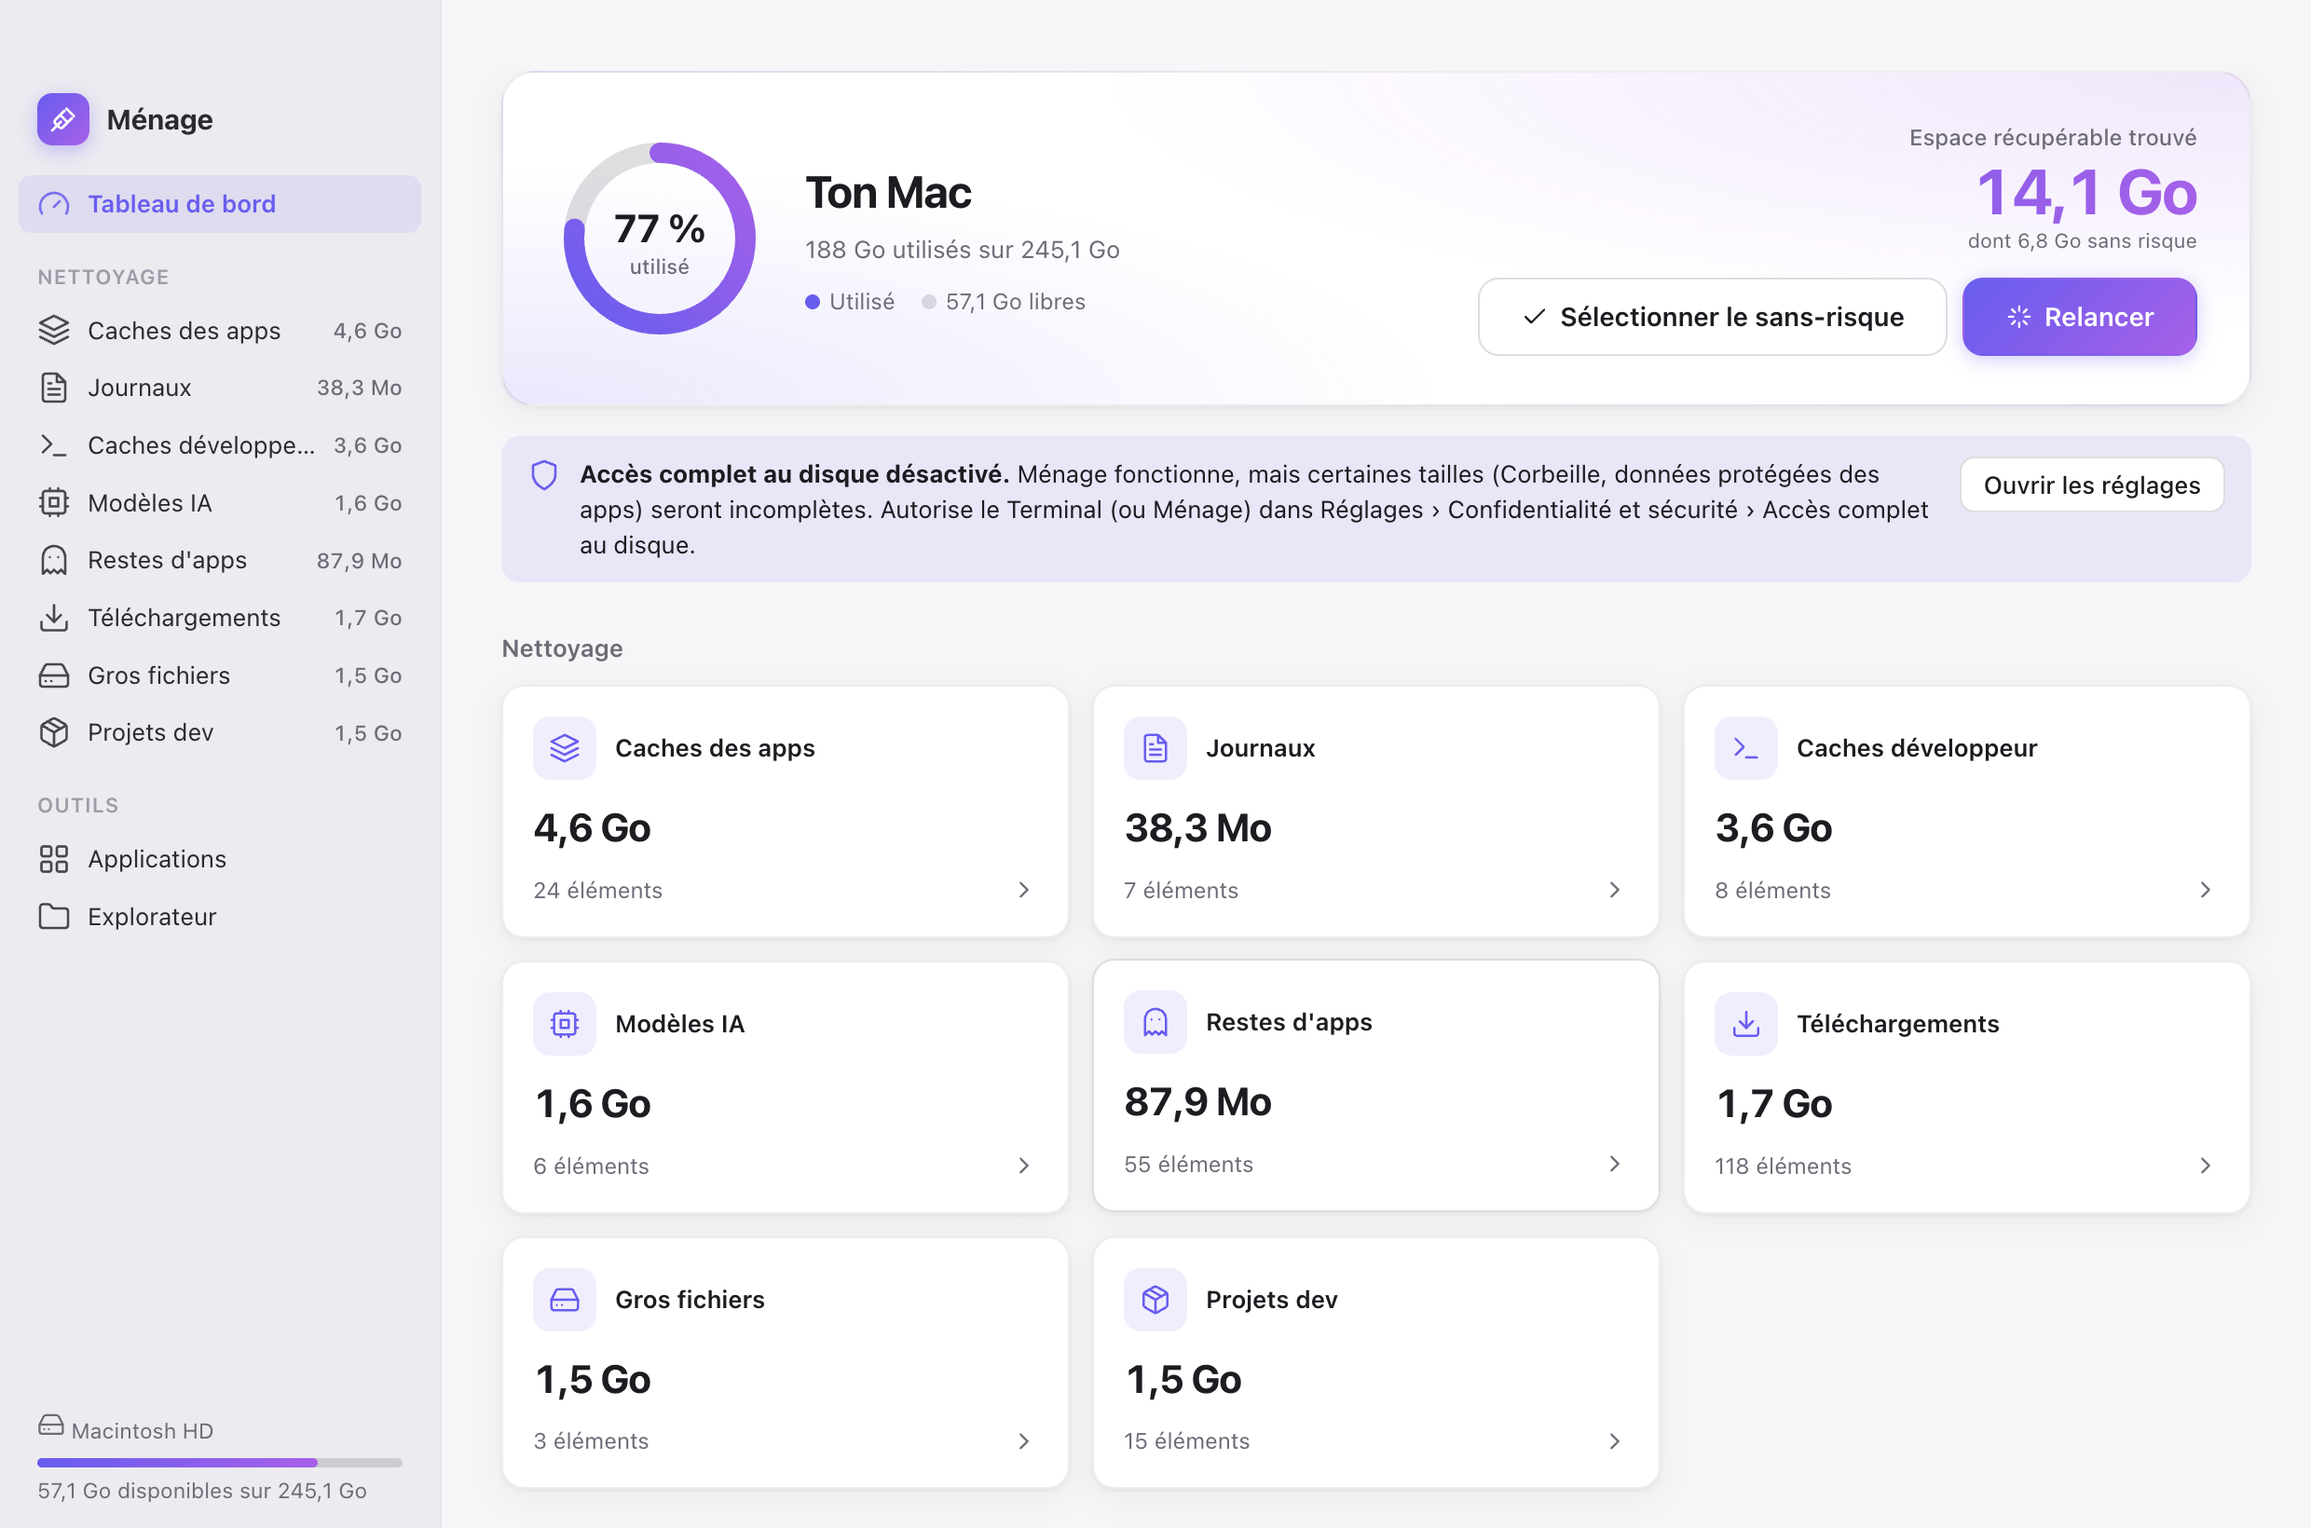
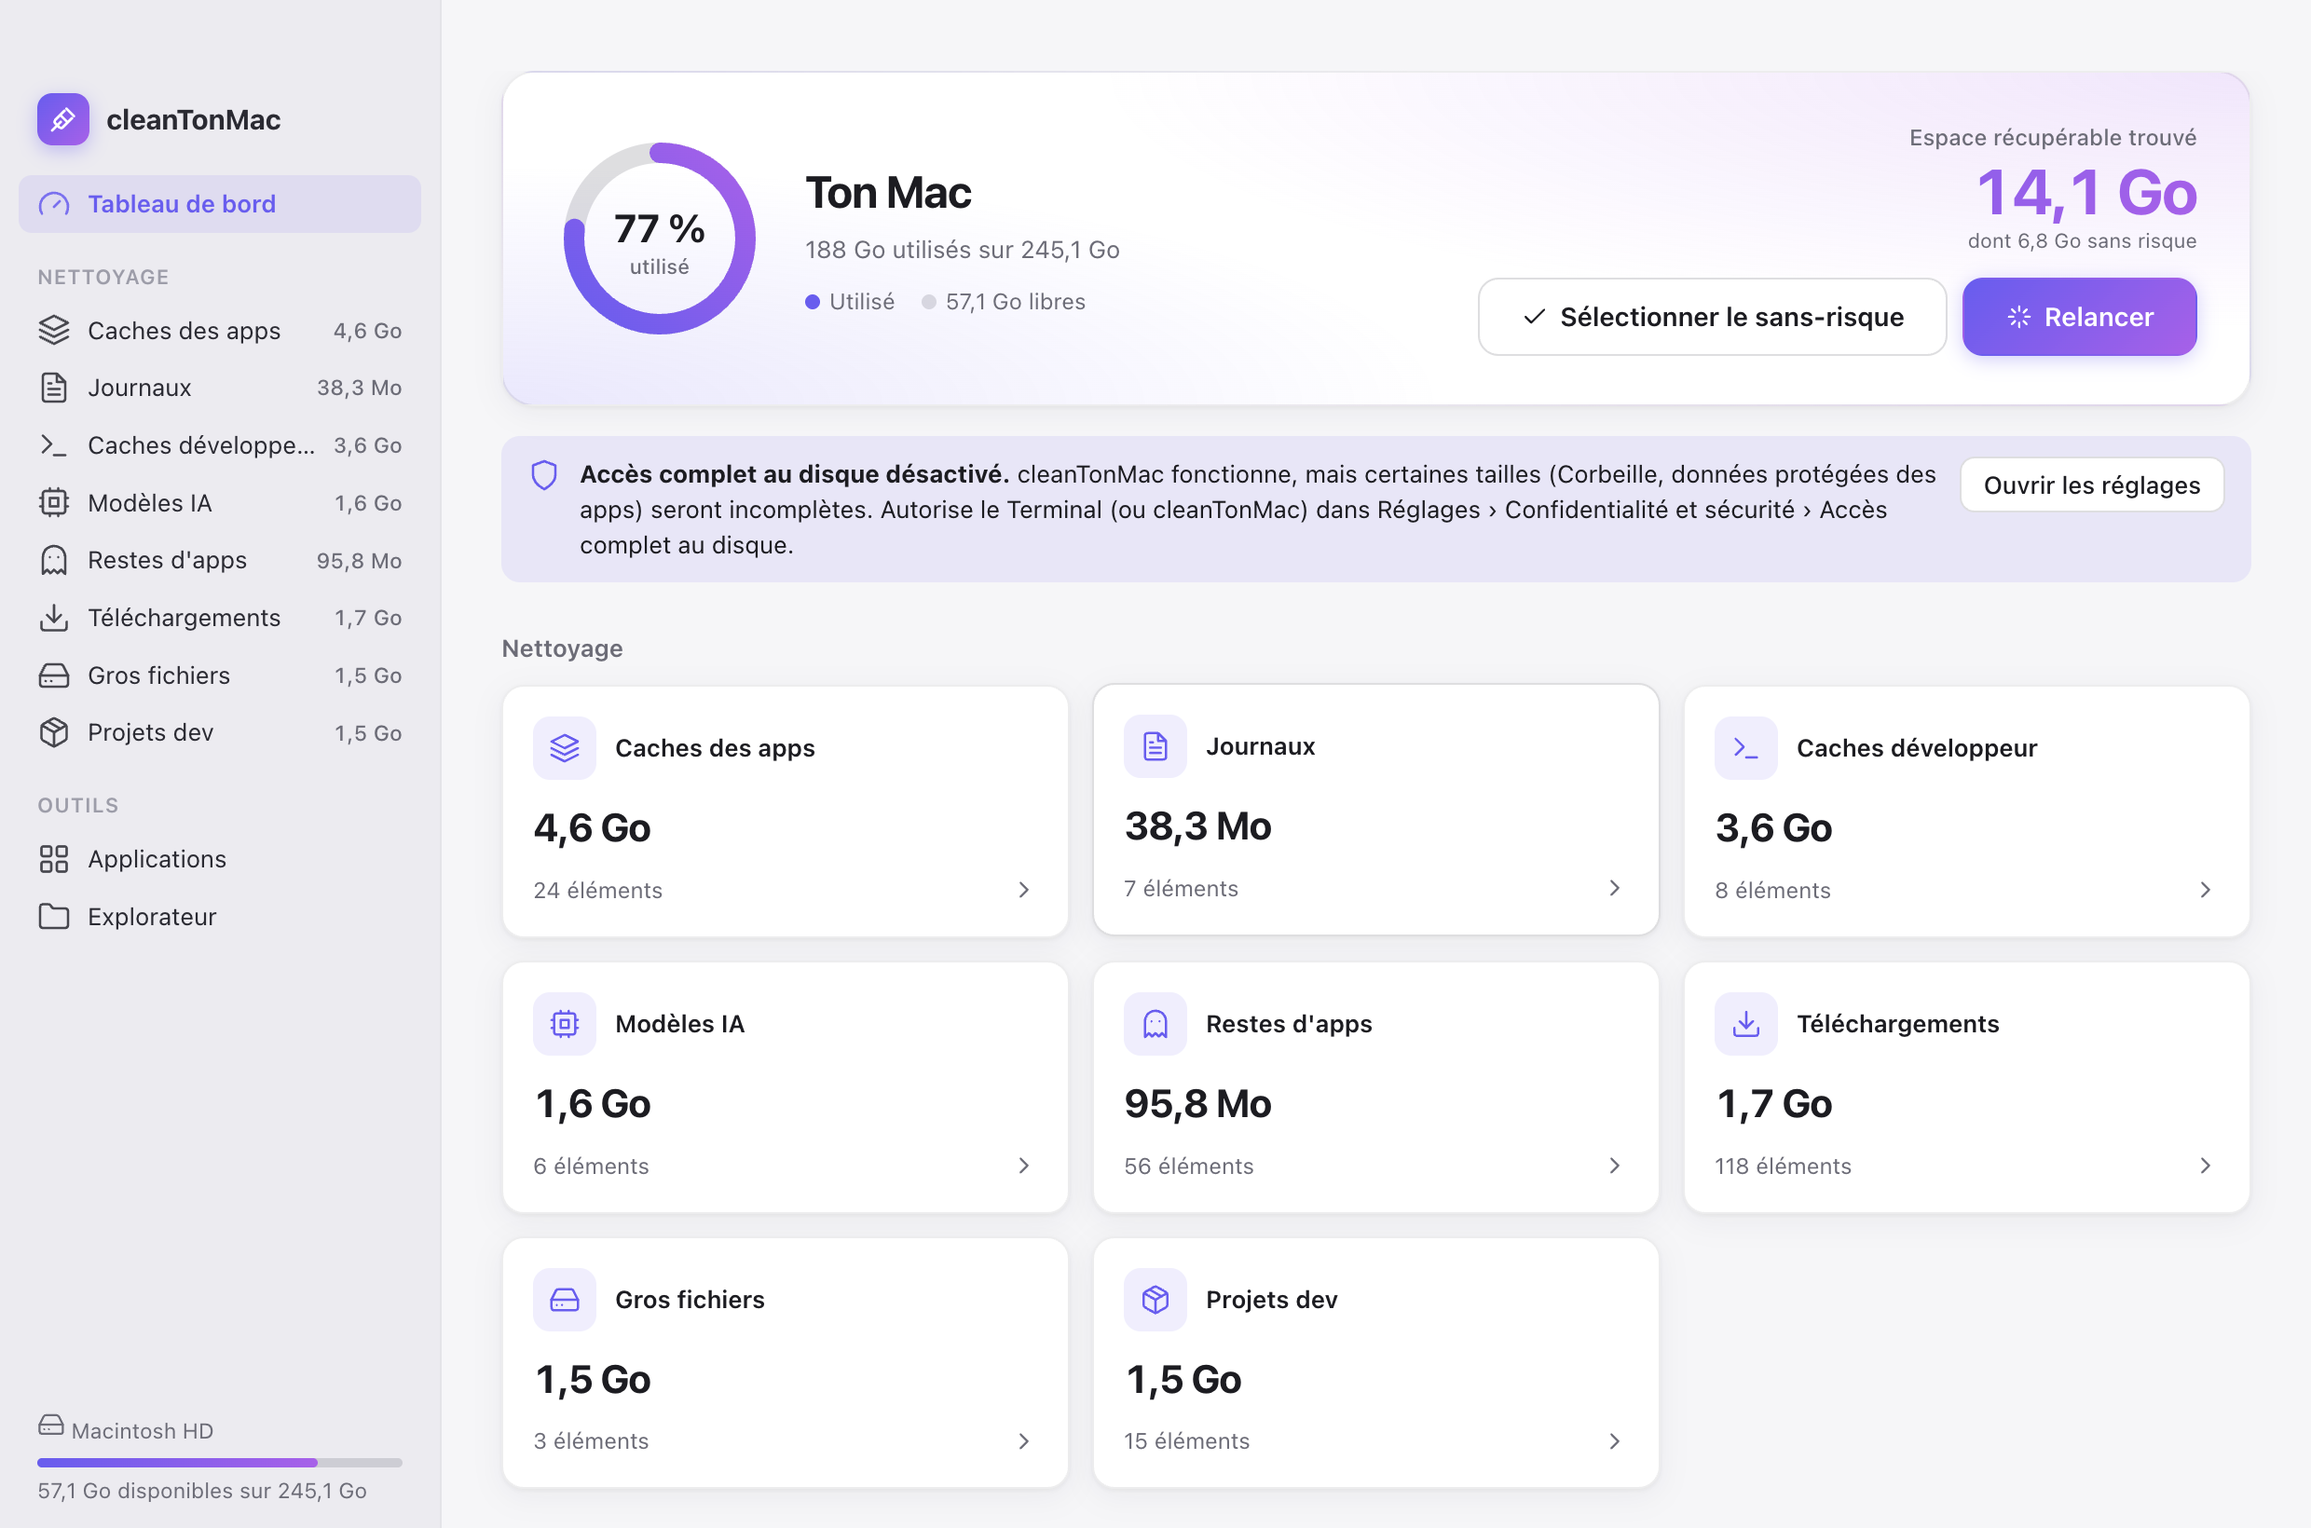
Renomme l'application en cleanTonMac et ajoute la licence MIT
- Nom de l'app, titre de fenêtre, pont IPC et variables de test renommés
- Fichier LICENSE (MIT) et champs license/author dans package.json
- Section Licence dans le README et capture d'écran mise à jour

diff --git a/main.js b/main.js
@@ -31,7 +31,7 @@ function protectedReason(p) {
   const r = path.resolve(p);
   const userData = app.getPath('userData');
   const inside = (t) => r === t || r.startsWith(t + '/');
-  if (inside(APP_DIR) || inside(userData) || userData.startsWith(r + '/') || APP_DIR.startsWith(r + '/')) return 'Utilisé par Ménage';
+  if (inside(APP_DIR) || inside(userData) || userData.startsWith(r + '/') || APP_DIR.startsWith(r + '/')) return 'Utilisé par cleanTonMac';
   if (PROTECTED.has(r)) return 'Dossier système protégé';
   if (PROTECTED_TREES.some(inside)) return 'Dossier sensible protégé';
   if (r.startsWith(HOME + '/')) return null;
@@ -47,7 +47,7 @@ function createWindow() {
     height: 820,
     minWidth: 980,
     minHeight: 640,
-    title: 'Ménage',
+    title: 'cleanTonMac',
     titleBarStyle: 'hiddenInset',
     trafficLightPosition: { x: 18, y: 18 },
     webPreferences: {
@@ -63,7 +63,7 @@ function createWindow() {
   win.webContents.setWindowOpenHandler(({ url }) => { shell.openExternal(url); return { action: 'deny' }; });
   win.webContents.on('will-navigate', (e) => e.preventDefault());
 
-  if (process.env.MENAGE_SNAPSHOT) debugSnapshot(process.env.MENAGE_SNAPSHOT);
+  if (process.env.CLEANTONMAC_SNAPSHOT) debugSnapshot(process.env.CLEANTONMAC_SNAPSHOT);
 }
 
 // Mode test : exécute un script dans la page, capture la fenêtre et quitte.
@@ -71,8 +71,8 @@ function debugSnapshot(out) {
   win.webContents.on('console-message', (e) => console.log(`[page:${e.level}] ${e.message}`));
   win.webContents.once('did-finish-load', async () => {
     try {
-      if (process.env.MENAGE_EVAL) await win.webContents.executeJavaScript(process.env.MENAGE_EVAL);
-      await new Promise((r) => setTimeout(r, Number(process.env.MENAGE_WAIT || 4000)));
+      if (process.env.CLEANTONMAC_EVAL) await win.webContents.executeJavaScript(process.env.CLEANTONMAC_EVAL);
+      await new Promise((r) => setTimeout(r, Number(process.env.CLEANTONMAC_WAIT || 4000)));
       const img = await win.webContents.capturePage();
       fs.writeFileSync(out, img.toPNG());
     } catch (e) { console.error(e); }

diff --git a/renderer/app.js b/renderer/app.js
@@ -1,6 +1,6 @@
 'use strict';
 
-const api = window.menage;
+const api = window.cleanTonMac;
 
 // ------------------------------------------------------------------- icônes
 
@@ -201,7 +201,7 @@ async function emptyTrash() {
   const size = state.trash?.size;
   const ok = await confirmModal({
     title: 'Vider la Corbeille ?',
-    body: `<p>${size != null ? `<strong>${fmtSize(size)}</strong> seront supprimés` : 'Tout son contenu sera supprimé'} définitivement. Cette action est irréversible.</p><p>macOS peut te demander d'autoriser Ménage à piloter le Finder la première fois.</p>`,
+    body: `<p>${size != null ? `<strong>${fmtSize(size)}</strong> seront supprimés` : 'Tout son contenu sera supprimé'} définitivement. Cette action est irréversible.</p><p>macOS peut te demander d'autoriser cleanTonMac à piloter le Finder la première fois.</p>`,
     confirm: 'Vider la corbeille',
     danger: true,
   });
@@ -417,8 +417,8 @@ function viewDashboard() {
 
   const fda = state.info && !state.info.fda ? `
     <div class="callout info">${icon('shield')}
-      <div><strong>Accès complet au disque désactivé.</strong> Ménage fonctionne, mais certaines tailles
-      (Corbeille, données protégées des apps) seront incomplètes. Autorise le Terminal (ou Ménage) dans
+      <div><strong>Accès complet au disque désactivé.</strong> cleanTonMac fonctionne, mais certaines tailles
+      (Corbeille, données protégées des apps) seront incomplètes. Autorise le Terminal (ou cleanTonMac) dans
       Réglages › Confidentialité et sécurité › Accès complet au disque.</div>
       <button class="btn" data-act="fda">Ouvrir les réglages</button>
     </div>` : '';

diff --git a/renderer/index.html b/renderer/index.html
@@ -4,7 +4,7 @@
   <meta charset="utf-8">
   <meta http-equiv="Content-Security-Policy"
         content="default-src 'self'; img-src 'self' data:; style-src 'self' 'unsafe-inline'; script-src 'self'">
-  <title>Ménage</title>
+  <title>cleanTonMac</title>
   <link rel="stylesheet" href="styles.css">
 </head>
 <body>
@@ -13,7 +13,7 @@
       <span class="logo" aria-hidden="true">
         <svg viewBox="0 0 24 24" fill="none" stroke="currentColor" stroke-width="2" stroke-linecap="round" stroke-linejoin="round"><path d="M9.94 14.06 3 21"/><path d="m14.5 3.5 6 6"/><path d="M13 5 5.5 12.5a2 2 0 0 0 0 2.8l3.2 3.2a2 2 0 0 0 2.8 0L19 11"/><path d="m10 9 5 5"/></svg>
       </span>
-      <span>Ménage</span>
+      <span>cleanTonMac</span>
     </div>
     <nav id="nav"></nav>
     <div class="side-foot" id="side-foot"></div>

diff --git a/src/preload.js b/src/preload.js
@@ -4,7 +4,7 @@ const { contextBridge, ipcRenderer } = require('electron');
 
 const call = (channel) => (...args) => ipcRenderer.invoke(channel, ...args);
 
-contextBridge.exposeInMainWorld('menage', {
+contextBridge.exposeInMainWorld('cleanTonMac', {
   systemInfo: call('system:info'),
   scan: call('scan'),
   listApps: call('apps:list'),

diff --git a/README.md b/README.md
@@ -1,8 +1,8 @@
 # cleanTonMac
 
-**Ménage** est un tableau de bord pour macOS, dans l'esprit de CleanMyMac, qui repère les caches, les restes d'applications désinstallées et les fichiers oubliés qui encombrent ton disque, puis t'aide à les supprimer **sans risque** : tout part dans la Corbeille.
+**cleanTonMac** est un tableau de bord pour macOS, dans l'esprit de CleanMyMac, qui repère les caches, les restes d'applications désinstallées et les fichiers oubliés qui encombrent ton disque, puis t'aide à les supprimer **sans risque** : tout part dans la Corbeille.
 
-![Tableau de bord de Ménage](docs/tableau-de-bord.png)
+![Tableau de bord de cleanTonMac](docs/tableau-de-bord.png)
 
 - **Gratuit et local** : aucune donnée ne quitte ton Mac, aucun compte, aucune télémétrie.
 - **Transparent** : chaque élément affiche son chemin exact, sa taille et sa date de modification. Un clic l'ouvre dans le Finder.
@@ -14,13 +14,14 @@
 
 - [Installation](#installation)
 - [Utilisation](#utilisation)
-- [Ce que Ménage analyse](#ce-que-ménage-analyse)
+- [Ce que cleanTonMac analyse](#ce-que-cleantonmac-analyse)
 - [Comment ça fonctionne](#comment-ça-fonctionne)
 - [Sécurité](#sécurité)
 - [Autorisations macOS](#autorisations-macos)
 - [Structure du projet](#structure-du-projet)
 - [Développement](#développement)
 - [Limites connues](#limites-connues)
+- [Licence](#licence)
 
 ---
 
@@ -50,7 +51,7 @@ Ensuite, `npm start` suffit pour relancer l'application.
 
 ### 1. Analyser
 
-Au lancement, Ménage analyse automatiquement ton Mac, en quelques secondes. Le **tableau de bord** affiche :
+Au lancement, cleanTonMac analyse automatiquement ton Mac, en quelques secondes. Le **tableau de bord** affiche :
 
 - l'occupation du disque,
 - l'**espace récupérable** total, et la part « sans risque »,
@@ -100,7 +101,7 @@ La taille des dossiers se calcule progressivement. Des raccourcis mènent à la 
 
 ---
 
-## Ce que Ménage analyse
+## Ce que cleanTonMac analyse
 
 | Catégorie | Emplacements | Risque |
 |---|---|---|
@@ -119,7 +120,7 @@ La taille des dossiers se calcule progressivement. Des raccourcis mènent à la 
 
 ### Architecture
 
-Ménage est une application [Electron](https://www.electronjs.org/) sans framework ni bundler, en trois couches :
+cleanTonMac est une application [Electron](https://www.electronjs.org/) sans framework ni bundler, en trois couches :
 
 ```
 ┌────────────────────────┐   IPC (contextBridge)   ┌──────────────────────────┐
@@ -145,7 +146,7 @@ Ménage est une application [Electron](https://www.electronjs.org/) sans framewo
 
 ### Détection des restes d'applications
 
-C'est la partie la plus délicate. Ménage construit d'abord un **index de ce qui est installé** :
+C'est la partie la plus délicate. cleanTonMac construit d'abord un **index de ce qui est installé** :
 
 1. toutes les apps de `/Applications`, `~/Applications` et `/System/Applications`, avec leur identifiant (`com.editeur.app`), leur nom, leur exécutable et leur éditeur,
 2. les identifiants d'équipe de signature des apps tierces,
@@ -154,17 +155,17 @@ C'est la partie la plus délicate. Ménage construit d'abord un **index de ce qu
 
 Chaque dossier de la Bibliothèque est ensuite comparé à cet index :
 
-- s'il porte un **identifiant** (`com.voicestudio.desktop`), Ménage cherche une app au même identifiant, ou au même préfixe, ou du même éditeur,
-- s'il porte un **nom** (`VoiceStudio`), Ménage cherche une app, une commande ou un processus au nom proche,
+- s'il porte un **identifiant** (`com.voicestudio.desktop`), cleanTonMac cherche une app au même identifiant, ou au même préfixe, ou du même éditeur,
+- s'il porte un **nom** (`VoiceStudio`), cleanTonMac cherche une app, une commande ou un processus au nom proche,
 - les éléments d'Apple et du système sont toujours ignorés,
-- pour un agent de démarrage (`LaunchAgents`), Ménage vérifie si le programme qu'il lance existe encore.
+- pour un agent de démarrage (`LaunchAgents`), cleanTonMac vérifie si le programme qu'il lance existe encore.
 
 Tout ce qui ne correspond à rien est proposé comme **reste d'app**. La détection est volontairement prudente : dans le doute, un élément est considéré comme installé. Une détection automatique reste toutefois une supposition. Vérifie donc les lignes, surtout celles marquées « Utilisé récemment ».
 
 ### Modèles IA
 
-Les modèles Hugging Face sont listés un par un (`organisation/modèle`). Quand un fichier marqueur l'indique, Ménage affiche l'application qui a téléchargé le modèle.
-Si ton cache utilise le dossier `blobs` partagé, les fichiers réels y sont stockés. Ménage le signale : supprimer un modèle sans ce dossier ne libère pas l'espace.
+Les modèles Hugging Face sont listés un par un (`organisation/modèle`). Quand un fichier marqueur l'indique, cleanTonMac affiche l'application qui a téléchargé le modèle.
+Si ton cache utilise le dossier `blobs` partagé, les fichiers réels y sont stockés. cleanTonMac le signale : supprimer un modèle sans ce dossier ne libère pas l'espace.
 
 ---
 
@@ -179,7 +180,7 @@ La suppression est encadrée côté processus principal, indépendamment de l'in
   - ton dossier personnel, `~/Library` et ses dossiers principaux,
   - Documents, Bureau, Téléchargements, Images, Musique, Vidéos,
   - `~/.ssh`, `~/.gnupg`, les trousseaux, tes fichiers de configuration de shell,
-  - le dossier de Ménage lui-même.
+  - le dossier de cleanTonMac lui-même.
 - **Pas de doublons.** Si un dossier et un fichier qu'il contient sont tous deux sélectionnés, seul le dossier est traité.
 - **Pas d'accès réseau.** L'application ne se connecte à rien.
 
@@ -223,9 +224,9 @@ Catégories disponibles : `caches`, `logs`, `dev`, `ai`, `orphans`, `downloads`,
 Capturer l'interface automatiquement (pratique pour vérifier un changement) :
 
 ```bash
-MENAGE_SNAPSHOT=capture.png MENAGE_WAIT=8000 npx electron .
+CLEANTONMAC_SNAPSHOT=capture.png CLEANTONMAC_WAIT=8000 npx electron .
 # Avec une action avant la capture :
-MENAGE_SNAPSHOT=apps.png MENAGE_EVAL="document.querySelector('[data-view=apps]').click()" npx electron .
+CLEANTONMAC_SNAPSHOT=apps.png CLEANTONMAC_EVAL="document.querySelector('[data-view=apps]').click()" npx electron .
 ```
 
 Pour ajouter un emplacement à analyser, il suffit en général d'ajouter une ligne dans `DEV_PATHS` ou dans la liste `singles` de `scanAI` (`src/scanner.js`).
@@ -236,5 +237,11 @@ Pour ajouter un emplacement à analyser, il suffit en général d'ajouter une li
 
 - **macOS uniquement.** Les chemins et outils utilisés (`mdls`, `plutil`, `codesign`) sont propres à macOS.
 - La détection des restes d'apps est **heuristique** : faux positifs possibles pour des outils en ligne de commande ou des dossiers partagés par plusieurs apps du même éditeur.
-- Les apps installées par un administrateur (propriété de `root`) ne peuvent pas être mises à la Corbeille sans mot de passe. Ménage te le signale : supprime-les depuis le Finder.
+- Les apps installées par un administrateur (propriété de `root`) ne peuvent pas être mises à la Corbeille sans mot de passe. cleanTonMac te le signale : supprime-les depuis le Finder.
 - L'application se lance pour l'instant avec `npm start`. Il n'existe pas encore de `.app` prête à télécharger.
+
+---
+
+## Licence
+
+Distribué sous licence [MIT](LICENSE) : tu peux utiliser, modifier et redistribuer ce code librement, à condition de conserver la mention de copyright.
